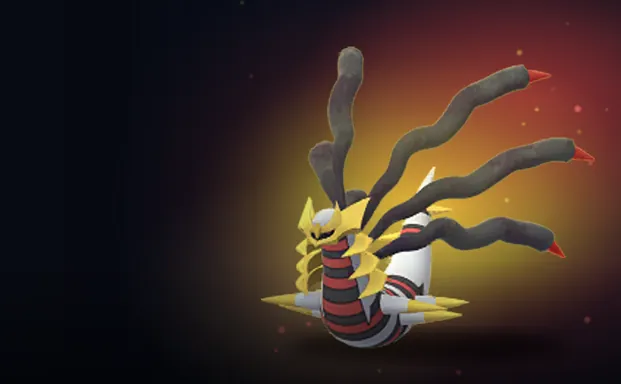
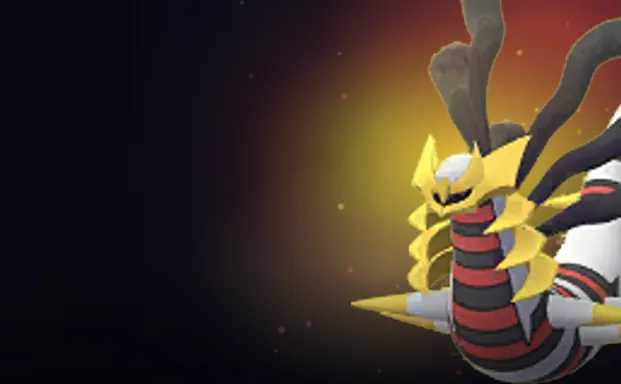
Retratos de Kyogre y Giratina con la cara a la derecha y arriba (el cuerpo se sale de la carta)

diff --git a/.claude/skills/pokemon-data-asset-pipeline/scripts/retrato.js b/.claude/skills/pokemon-data-asset-pipeline/scripts/retrato.js
@@ -3,7 +3,12 @@
 // Uso: node retrato.js <sprite.png> <salida.webp> 828 512 carta 621 384   (retrato de la carta, public/art/<clave>.webp)
 //      node retrato.js <sprite.png> <salida.webp> 552 342 centro 224 139   (miniatura centrada para cabezas redondas, public/art/t/<clave>.webp)
 // Necesita sharp (fuera del proyecto, no es dependencia del juego): npm i sharp
+// Encuadre a mano para los muy anchos (la cara a la derecha y arriba; el cuerpo se sale): alto=<fracción del alto> foco=<x>,<y> (la cara en el sprite) destino=<x>,<y> [suave=<sigma>]
+//   Kyogre:   alto=.62 foco=.47,.6 destino=.7,.46 suave=.9
+//   Giratina: alto=1.3 foco=.22,.55 destino=.76,.42
 const sharp = require('sharp');
+const opt = (k) => { const a = process.argv.find(v => v.startsWith(k + '=')); return a ? a.split('=')[1].split(',').map(Number) : null; };
+const ALTO = opt('alto'), FOCO = opt('foco'), DEST = opt('destino') || [.72, .45];
 const [inp, out, W = 828, H = 512, MODE = 'carta'] = process.argv.slice(2).map((v, i) => i > 1 && i < 4 ? +v : v);
 // modo 'carta': Pokémon a la derecha y fundido a oscuro a la izquierda (sinergias y nombre); 'centro': centrado y sin fundido (cabezas redondas)
 const CENTER = MODE === 'centro';
@@ -43,13 +48,22 @@ const css = (rgb, a = 1) => `rgba(${rgb.join(',')},${a})`;
   const c1 = vivid(ac[0] || pal[0].rgb, 1.35), c2 = vivid(ac[1] || (pal[1] || pal[0]).rgb, 1.25), c3 = vivid(pal[0].rgb, 1.1);
   // sprite escalado (suave) hasta ~84 % del alto; los sprites pixelados primero se doblan sin suavizar y luego se suavizan
   // en la carta se recorta arriba y abajo (es más ancha que el retrato): margen de un 12 % arriba y un 9 % abajo
-  const tall = Math.round(H * (CENTER ? .9 : .79)), maxW = Math.round(W * (CENTER ? .9 : t.info.width / t.info.height > 1.6 ? .78 : .6)),   // los muy alargados (Kyogre) pueden ocupar más ancho
+  const tall = Math.round(H * (ALTO ? ALTO[0] : CENTER ? .9 : .79)), maxW = ALTO ? 99999 : Math.round(W * (CENTER ? .9 : t.info.width / t.info.height > 1.6 ? .78 : .6)),   // los muy alargados (Kyogre) pueden ocupar más ancho
     small = (await sharp(inp).metadata()).width <= 128;   // pixel art (Bank: 128 px): escalado entero sin suavizar
   const spr = sharp(t.data, { raw: t.info });
-  const sprBuf = small ? await spr.resize({ height: t.info.height * Math.max(1, Math.floor(Math.min(tall / t.info.height, maxW / t.info.width))), kernel: 'nearest' }).png().toBuffer() : await spr.resize({ height: tall, width: maxW, fit: 'inside', kernel: 'lanczos3' }).png().toBuffer();   // los muy anchos (Geodude, Kyogre) se limitan por el ancho
-  const sm = await sharp(sprBuf).metadata(); const sw = sm.width, sh = sm.height;
-  const cx = Math.round(W * (CENTER ? .5 : .68)), left = Math.round(CENTER ? Math.max(0, cx - sw / 2) : Math.min(W - sw - W * .03, Math.max(W * .42, cx - sw / 2))), top = H - sh - Math.round(H * (CENTER ? .04 : .09));
-  const ax = left + sw / 2, ay = top + sh * .52;
+  let sprBuf = small ? await spr.resize({ height: t.info.height * Math.max(1, Math.floor(Math.min(tall / t.info.height, maxW / t.info.width))), kernel: 'nearest' }).png().toBuffer() : await spr.resize({ height: tall, width: maxW, fit: 'inside', kernel: 'lanczos3' }).png().toBuffer();   // los muy anchos (Geodude, Kyogre) se limitan por el ancho
+  // suave=<sigma>: un leve desenfoque para los sprites pequeños muy ampliados (si no, se ven los escalones de los píxeles)
+  if (opt('suave')) sprBuf = await sharp(sprBuf).blur(opt('suave')[0]).png().toBuffer();
+  const sm = await sharp(sprBuf).metadata(); let sw = sm.width, sh = sm.height;
+  const cx = Math.round(W * (CENTER ? .5 : .68));
+  let left = Math.round(CENTER ? Math.max(0, cx - sw / 2) : Math.min(W - sw - W * .03, Math.max(W * .42, cx - sw / 2))), top = H - sh - Math.round(H * (CENTER ? .04 : .09));
+  let ax = left + sw / 2, ay = top + sh * .52, SHADOW = true;
+  if (FOCO) {   // la cara en el destino; lo que se salga del retrato se recorta (y sin sombra en el suelo, que queda fuera)
+    left = Math.round(DEST[0] * W - FOCO[0] * sw); top = Math.round(DEST[1] * H - FOCO[1] * sh); ax = DEST[0] * W; ay = DEST[1] * H; SHADOW = false;
+    const x0 = Math.max(0, -left), y0 = Math.max(0, -top), x1 = Math.min(sw, W - left), y1 = Math.min(sh, H - top);
+    sprBuf = await sharp(sprBuf).extract({ left: x0, top: y0, width: x1 - x0, height: y1 - y0 }).png().toBuffer();
+    left += x0; top += y0; sw = x1 - x0; sh = y1 - y0;
+  }
   // fondo: oscuro con el aura de sus colores detrás del Pokémon
   const bg = Buffer.from(`<svg xmlns="http://www.w3.org/2000/svg" width="${W}" height="${H}"><defs>
     <radialGradient id="a" cx="${ax / W}" cy="${ay / H}" r="${.62}" gradientUnits="objectBoundingBox" fx="${ax / W}" fy="${ay / H}">
@@ -79,7 +93,7 @@ const css = (rgb, a = 1) => `rgba(${rgb.join(',')},${a})`;
   const img = await sharp(bg).composite([
     { input: motesSvg, left: 0, top: 0 },
     { input: haloDim, left: 0, top: 0 },
-    { input: shadow, left: 0, top: 0 },
+    ...(SHADOW ? [{ input: shadow, left: 0, top: 0 }] : []),
     { input: sprBuf, left, top },
     { input: over, left: 0, top: 0 },
   ]).png().toBuffer();

diff --git a/CLAUDE.md b/CLAUDE.md
@@ -150,7 +150,7 @@ El detalle, con los nombres de las funciones, está en la skill `autochess-syste
 - **Efecto al colocar una ficha que comparte sinergia** (`joinFx`/`joinBurst`/`joinTrail` en `board3d.js`; detección en `sceneActors` con `synMem`): estallido de una vez por elemento (llamas con brasas, burbujas con aro y reflejo —sistema `PB`—, hojas, chispas…) en la ficha nueva y en las que comparten, y un destello en arco entre ellas.
 - **Cartas de la tienda al estilo TFT** (`.card.v2` en `index.html`): retrato a la derecha con fundido a negro a la izquierda, sinergias con icono hexagonal, barra inferior con nombre y coste y borde del color del coste. El punto del Pokémon en cada arte está en `ART_FOCUS` (`[x %, y %, zoom]` en `game.js`); el CSS (unidades `cqw`/`cqh`) lo lleva al 64 % del ancho sin dejar huecos.
 - **Tamaño por etapa** (`STAGE_SCALE`/`stageScale` en `game.js`): las primeras formas son más pequeñas (líneas de 3: ×0,78/0,93/1,08; de 2: ×0,75/1,1), además de `STAR_SCALE`. En `public/anims/<n.º>.json`, `size` ajusta un modelo concreto y `pose: "tail"` (con `tilt`) pone de pie a los alargados.
-- **Retratos** de la tienda, la ficha, el selector de minileyenda y las elecciones (`public/art/<clave>.webp`, 621×384, ~9 KB): sprites de **Pokémon GO** de pokemondb.net (`img.pokemondb.net/sprites/go/normal/<nombre>.png`, 2 s entre peticiones como pide su robots.txt) compuestos con `retrato.js` (skill de recursos): el Pokémon a la derecha (centro al 68 % del ancho, con margen arriba y abajo porque la carta recorta), un aura con sus tonos más llamativos (los que ocupan al menos un 3 % de la figura: así unos ojos rojos no tiñen el aura), un halo de su silueta, motas de luz, sombra de contacto y la izquierda fundida a oscuro para sinergias y nombre. Todos comparten encuadre (`ART_DEF=[68,50,1,.87]` en `game.js`; `ART_FOCUS` solo para excepciones). Las miniaturas de las cabezas redondas (`public/art/t`, 224×139) son el mismo retrato con el Pokémon centrado y sin fundido. Cada carta muestra la forma que sale en la tienda (los de coste 4, su 2.ª forma). Para añadir uno: baja su sprite de GO y genera las dos versiones con los comandos de la cabecera del script.
+- **Retratos** de la tienda, la ficha, el selector de minileyenda y las elecciones (`public/art/<clave>.webp`, 621×384, ~9 KB): sprites de **Pokémon GO** de pokemondb.net (`img.pokemondb.net/sprites/go/normal/<nombre>.png`, 2 s entre peticiones como pide su robots.txt) compuestos con `retrato.js` (skill de recursos): el Pokémon a la derecha (centro al 68 % del ancho, con margen arriba y abajo porque la carta recorta), un aura con sus tonos más llamativos (los que ocupan al menos un 3 % de la figura: así unos ojos rojos no tiñen el aura), un halo de su silueta, motas de luz, sombra de contacto y la izquierda fundida a oscuro para sinergias y nombre. Todos comparten encuadre (`ART_DEF=[68,50,1,.87]` en `game.js`; `ART_FOCUS` solo para excepciones). Las miniaturas de las cabezas redondas (`public/art/t`, 224×139) son el mismo retrato con el Pokémon centrado y sin fundido. Cada carta muestra la forma que sale en la tienda (los de coste 4, su 2.ª forma). Para añadir uno: baja su sprite de GO y genera las dos versiones con los comandos de la cabecera del script. Kyogre y Giratina, muy anchos, llevan encuadre a mano (la cara a la derecha y arriba y el cuerpo saliéndose de la carta: opciones `alto`, `foco`, `destino` y `suave`, con sus valores en la cabecera del script).
 - **Insignias de rango**: copas ilustradas en `public/img/rank/<liga>.webp` (256×256, fondo transparente, generadas con IA a partir de nuestro prompt; Platino es la de Plata teñida de turquesa y `none` la de Hierro apagada). Todas centradas en el mismo lienzo y las ligas altas ocupan algo más. `PX.badge(liga, tamaño)` devuelve el `<img>`.
 - Logo y favicon propios en `public/img/` (`logo.webp` del menú y del acceso, 52 KB; `logo.png` queda como original; `favicon-32.png`, `favicon-512.png` y `apple-touch-icon.png`), con el fondo ya transparente.
 - Sonidos: los propios se sintetizan con WebAudio en `Music` (`hurry`, `xp`, `drop` y `evolve` para las evoluciones de fichas y minileyendas); los grabados se cargan en caliente con `Music.sample`: gritos al comprar el primer ejemplar (Showdown `audio/cries/<nombre>.mp3`, con PokeAPI/cries de reserva) y la Poké Ball de PokeMiners/pogo_assets (`SFX`).
